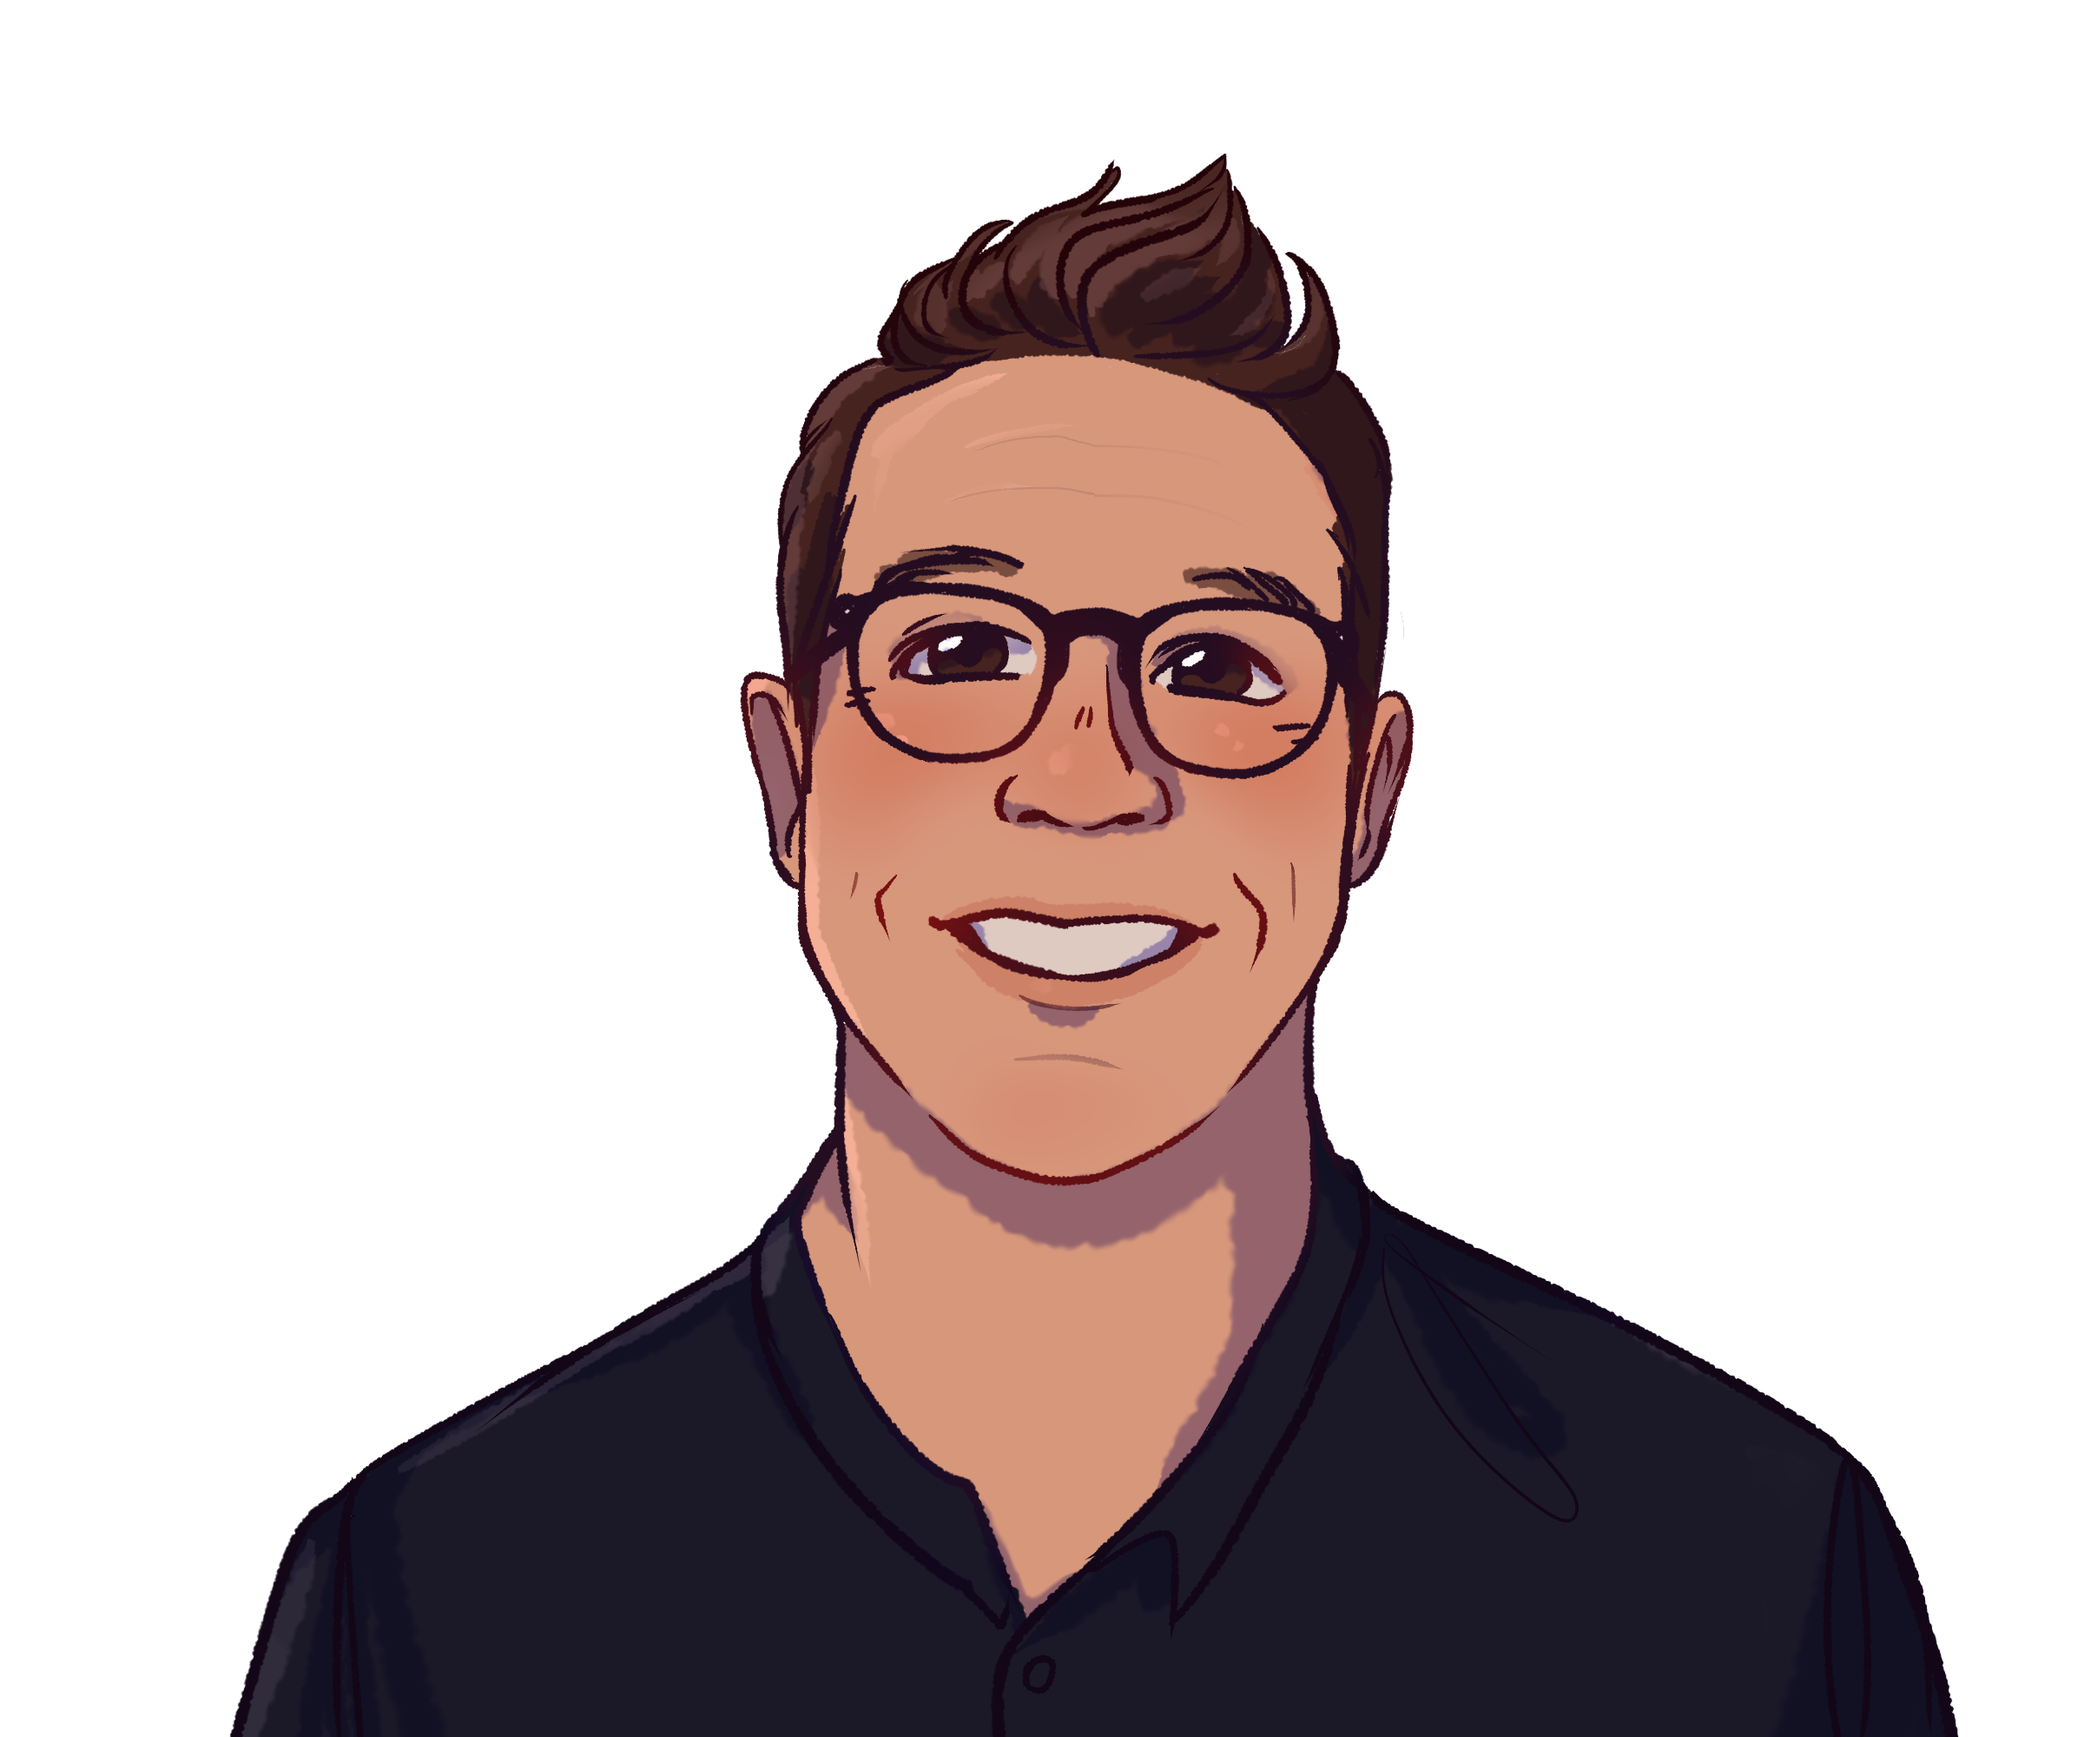
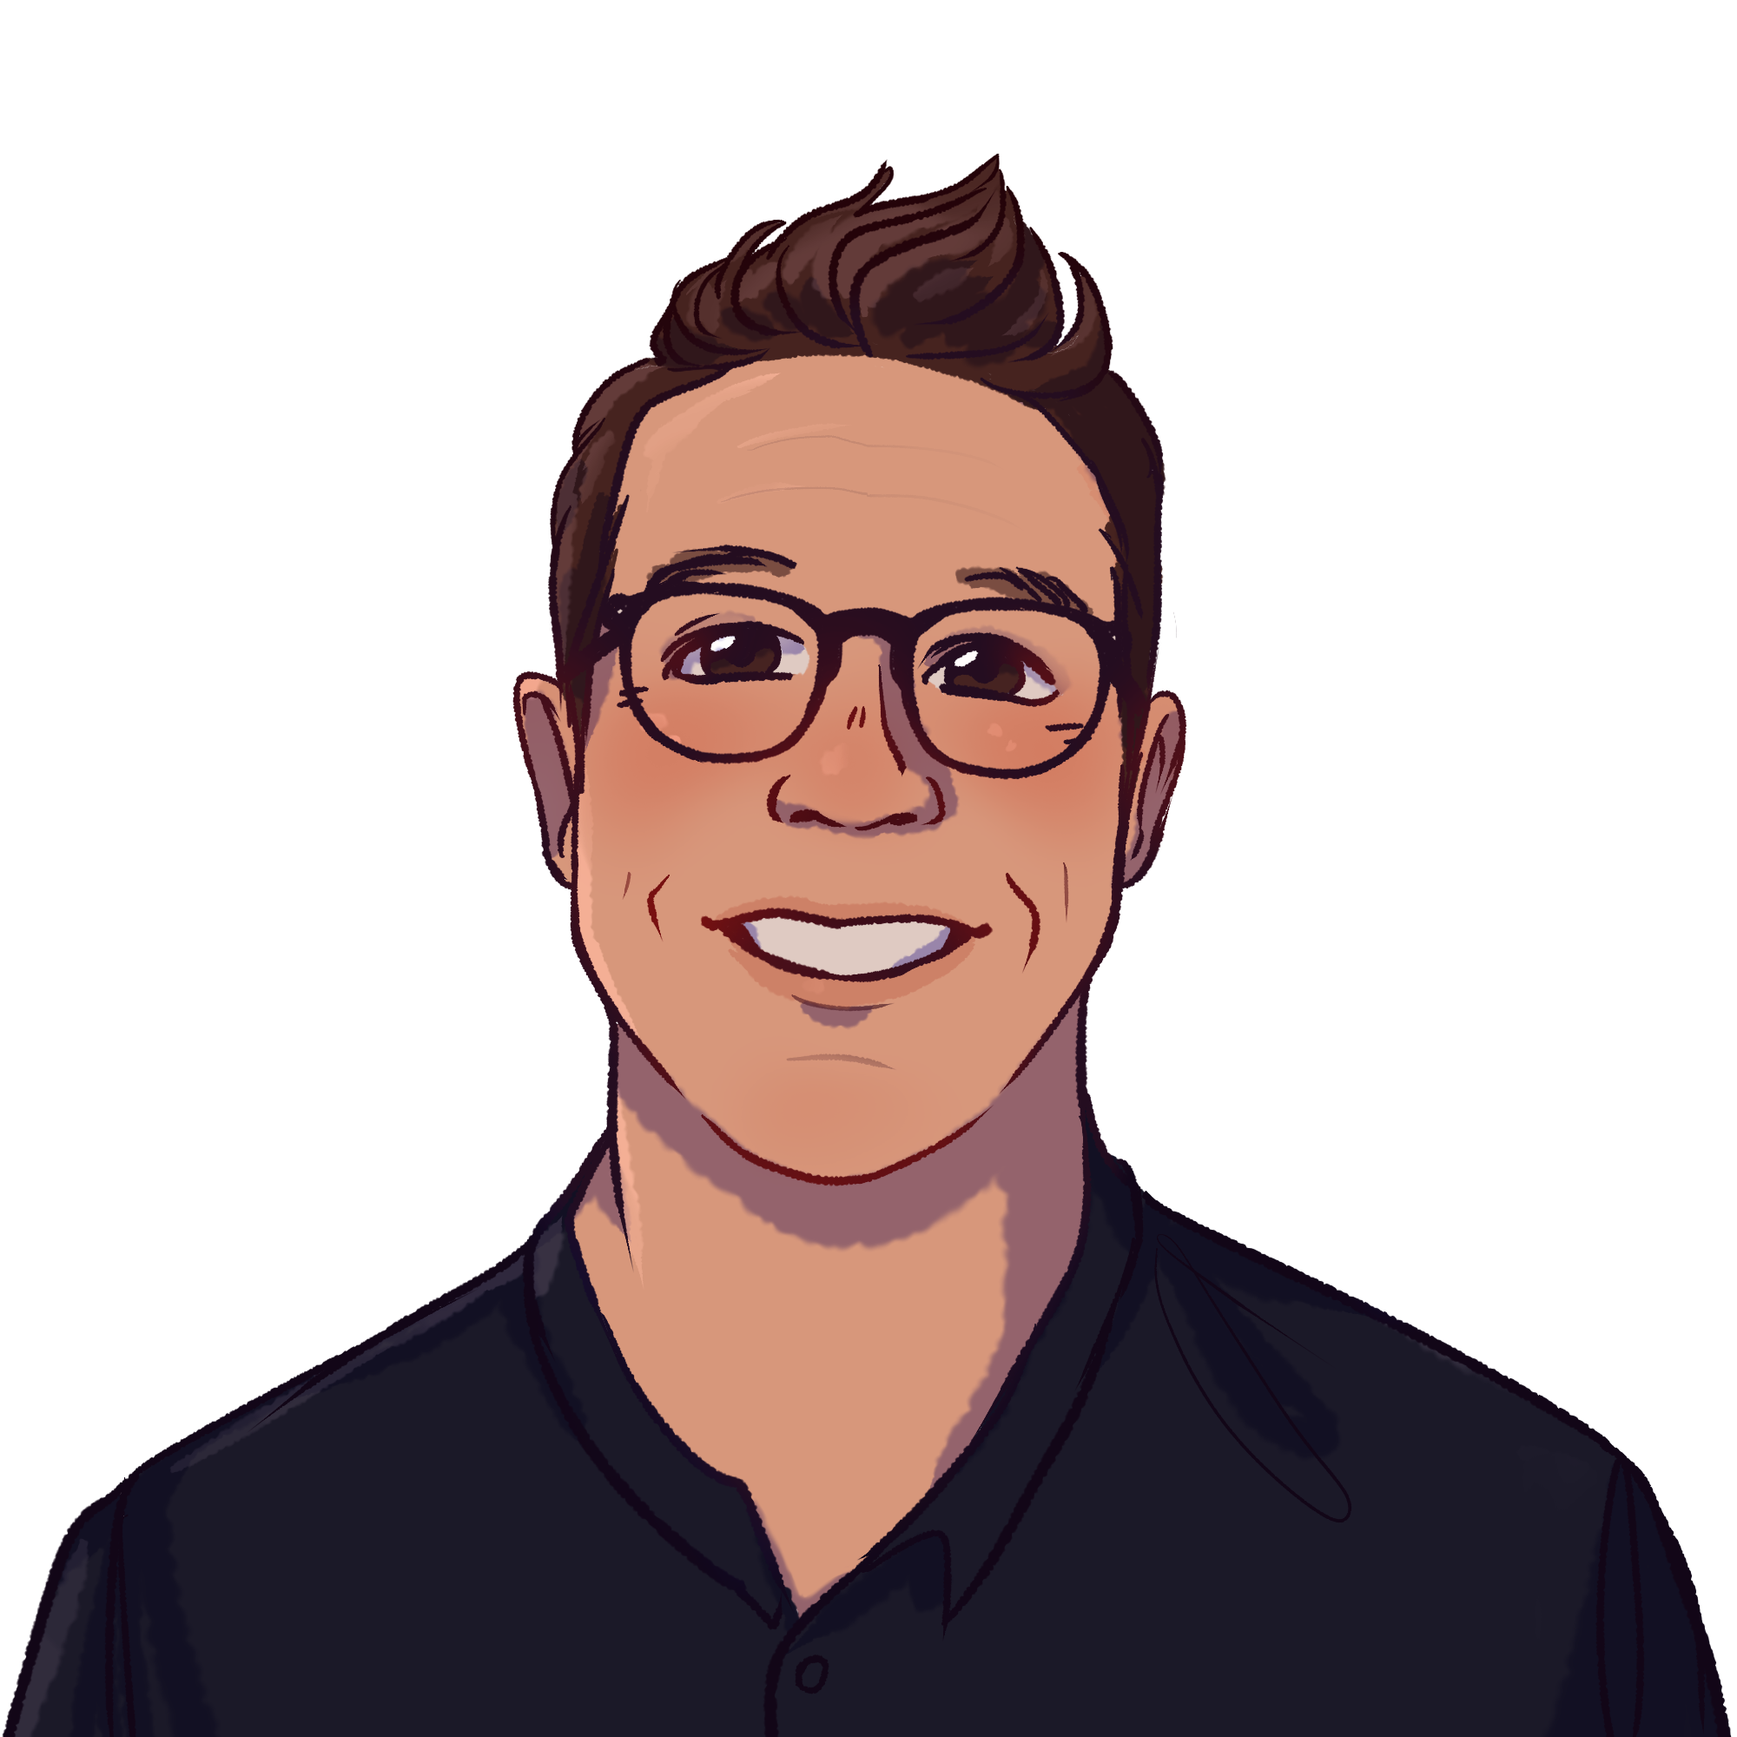
refactor: :recycle: update new assets

Changed region(s): [[0.0, 0.093, 0.682, 1.0], [0.713, 0.713, 1.0, 1.0]]

diff --git a/src/lib/components/landing-hero.svelte b/src/lib/components/landing-hero.svelte
@@ -1,7 +1,6 @@
 <script lang="ts">
   import { page } from '$app/stores'
-  import MugFace from '$lib/images/mug-face.png'
-  import ScottMugFace from '$lib/images/scott-mug-face.jpg'
+  import { ScottFace, ScottMugFace } from '$lib/assets'
   import { visitors_store } from '$lib/stores'
   import { get_current_page_visitors } from '$lib/utils'
   import { trackGoal } from 'fathom-client'
@@ -25,7 +24,7 @@
       <!-- svelte-ignore a11y-mouse-events-have-key-events -->
       <!-- svelte-ignore a11y-img-redundant-alt -->
       <img
-        src={isHovering ? ScottMugFace : MugFace}
+        src={isHovering ? ScottFace : ScottMugFace}
         alt="Cartoon face Scott"
         class="rounded-full max-w-sm shadow-xl w-1/2 lg:w-full"
         on:mouseover={() => (isHovering = !isHovering)}
@@ -67,7 +66,7 @@
         <a
           href="/contact"
           on:click={() => trackGoal(`T2YXL68Y`, 0)}
-          class="btn btn-md w-full lg:btn-lg btn-primary text-primary-content hover:text-primary-content"
+          class="btn btn-md w-full lg:btn-lg btn-primary text-primary-content hover:text-primary-content shadow-xl"
         >
           Get in Touch
         </a>

diff --git a/src/lib/components/butt-butt.svelte b/src/lib/components/butt-butt.svelte
@@ -1,6 +1,6 @@
 <script lang="ts">
+  import { ButtButt } from '$lib/assets'
   import { scale_and_fade, viewport } from '$lib/utils'
-  import ButtButt from '$lib/images/buttbutt.png'
 
   export let height = '100px'
   export let width = '160px'
@@ -54,14 +54,16 @@
       Looks like you have reached the bottom of this page!
     </p>
     {#if intersecting}
-      <div class="flex justify-center mb-12">
+      <div
+        class="justify-center mb-12"
+        >
         <img
-          src={ButtButt}
-          alt="a cheeky butt"
-          {height}
-          {width}
-          class="h-full"
-          transition:scale_and_fade={{ delay: 200, duration: 400 }}
+        src={ButtButt}
+        alt="a cheeky butt"
+        {height}
+        {width}
+        class="h-full transform transition-transform duration-400 delay-200 hover:rotate-[-22deg]"
+        transition:scale_and_fade={{ delay: 200, duration: 400 }}
         />
       </div>
     {/if}

diff --git a/src/lib/assets/index.ts b/src/lib/assets/index.ts
@@ -1,0 +1,4 @@
+export { default as ScottFace } from './scott-face.jpg'
+export { default as ScottMugFace } from './scott-mug-face.png'
+export { default as ButtButt } from './butt.png'
+export { default as Sparkles } from './sparkles.png'
